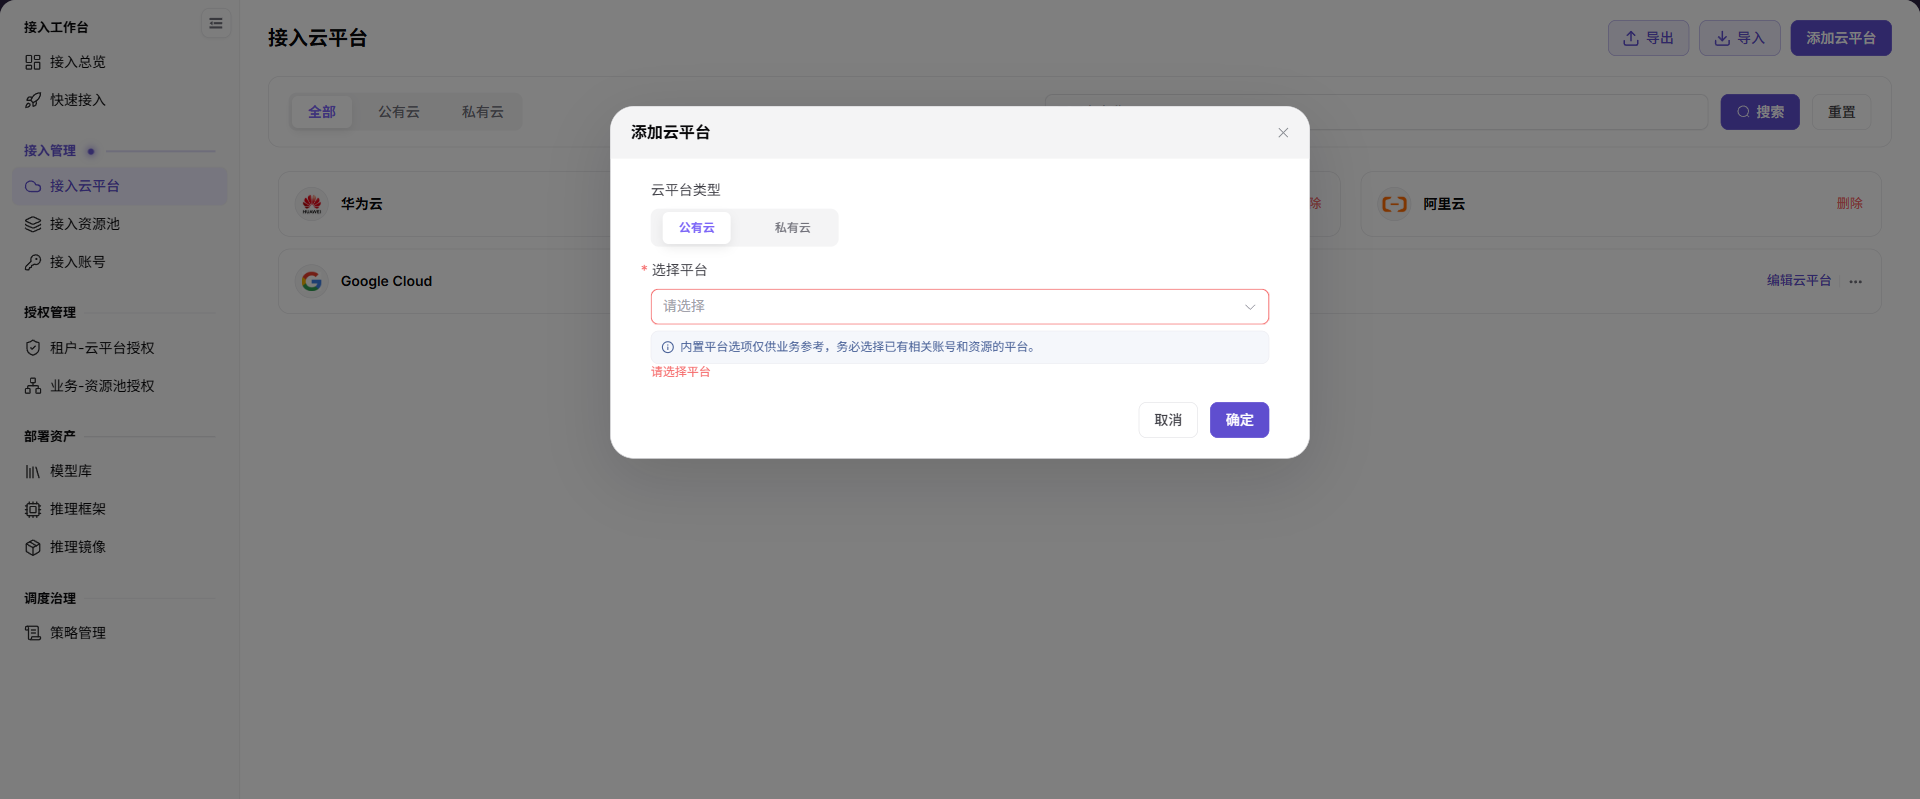
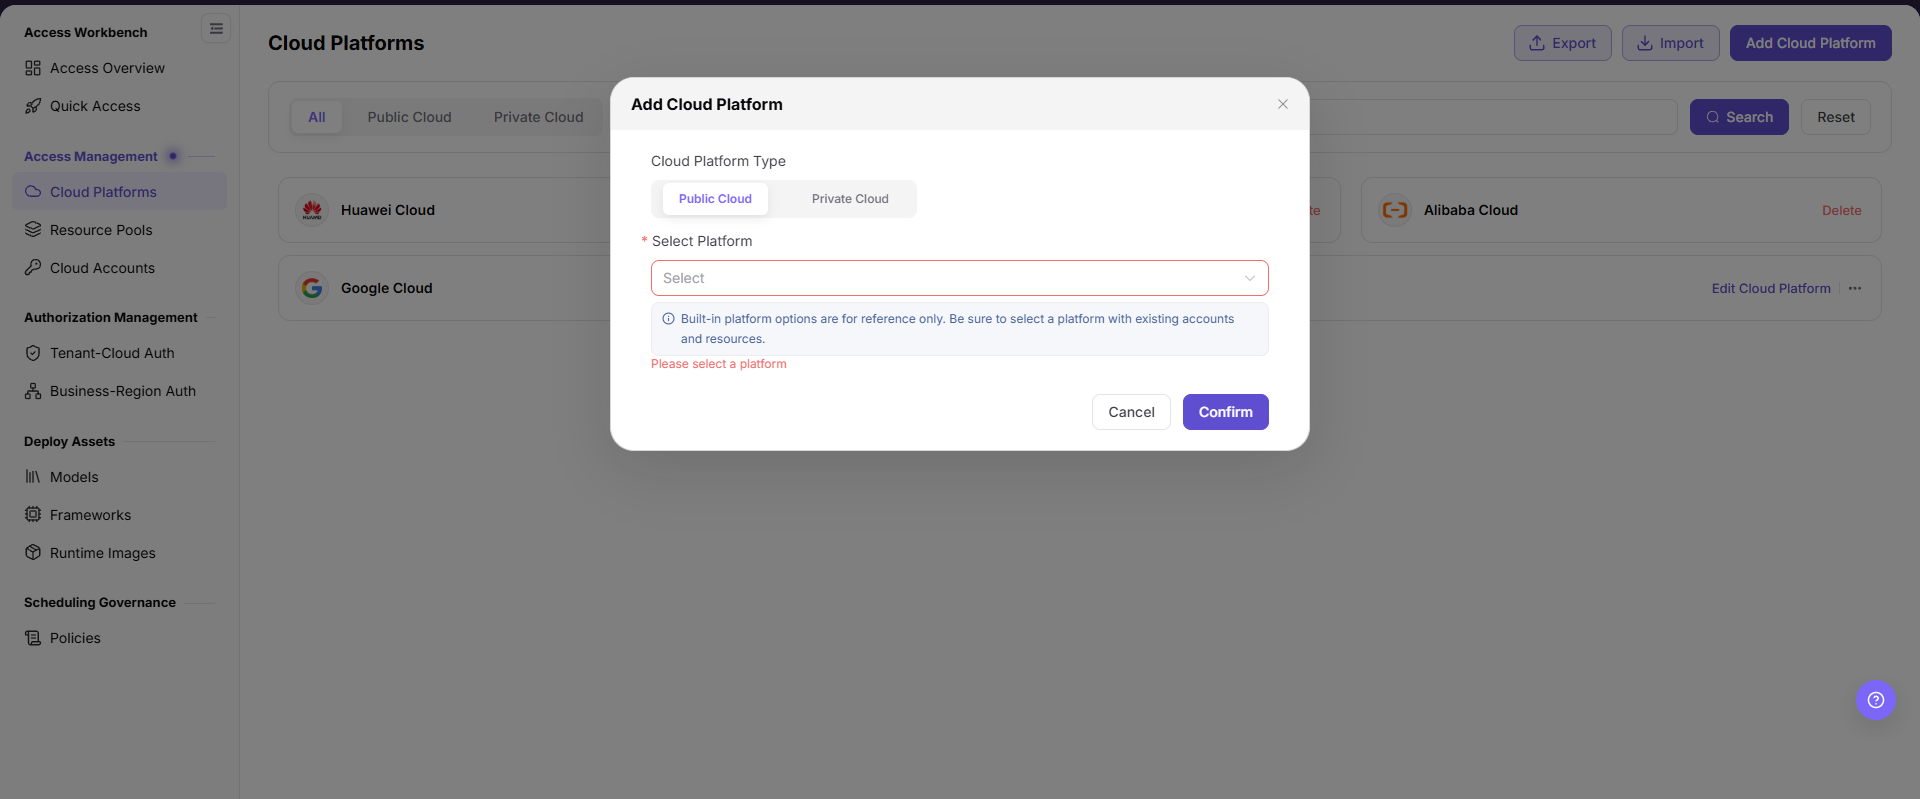
docs(ai-infra-on-cloud): 将 11 张运营页英文截图内嵌中文 UI 重截为英文
- cloud-platforms/resource-pools/tenant-cloud-auth/runtime-images 四页英文配图统一改为英文界面截图，与中文母版镜像一致
- resource-pools 因 disable.png 受 L31 保护，新增 manual-disable.png 并改指引用
- 通过 check:docs-images、check:docs-profile、docs:build 三道硬校验

diff --git a/docs/usermanual/ai-infra-on-cloud/operator/access-management/resource-pools/index.md b/docs/usermanual/ai-infra-on-cloud/operator/access-management/resource-pools/index.md
@@ -65,7 +65,7 @@ The image shows the Resource Pools management page, with connected cloud platfor
 3. Click **"Confirm"** and refresh the list.
 4. Verify the expected visibility on authorization and deployment pages.
 
-![Enable or disable a resource pool](./images/disable.png)
+![Enable or disable a resource pool](./images/manual-disable.png)
 
 The image shows the secondary confirmation dialog when enabling or disabling a regional resource pool, where you must confirm the target region before proceeding.
 
